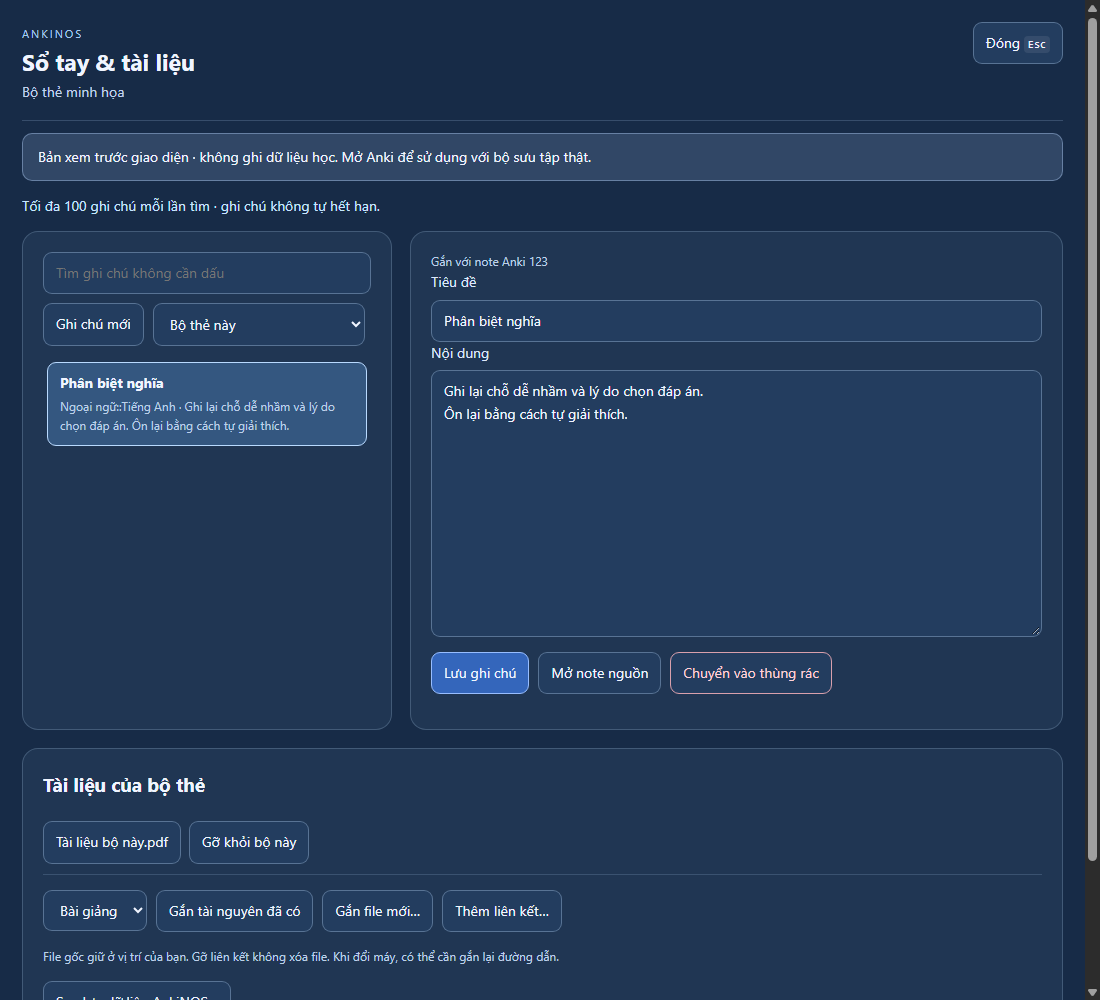
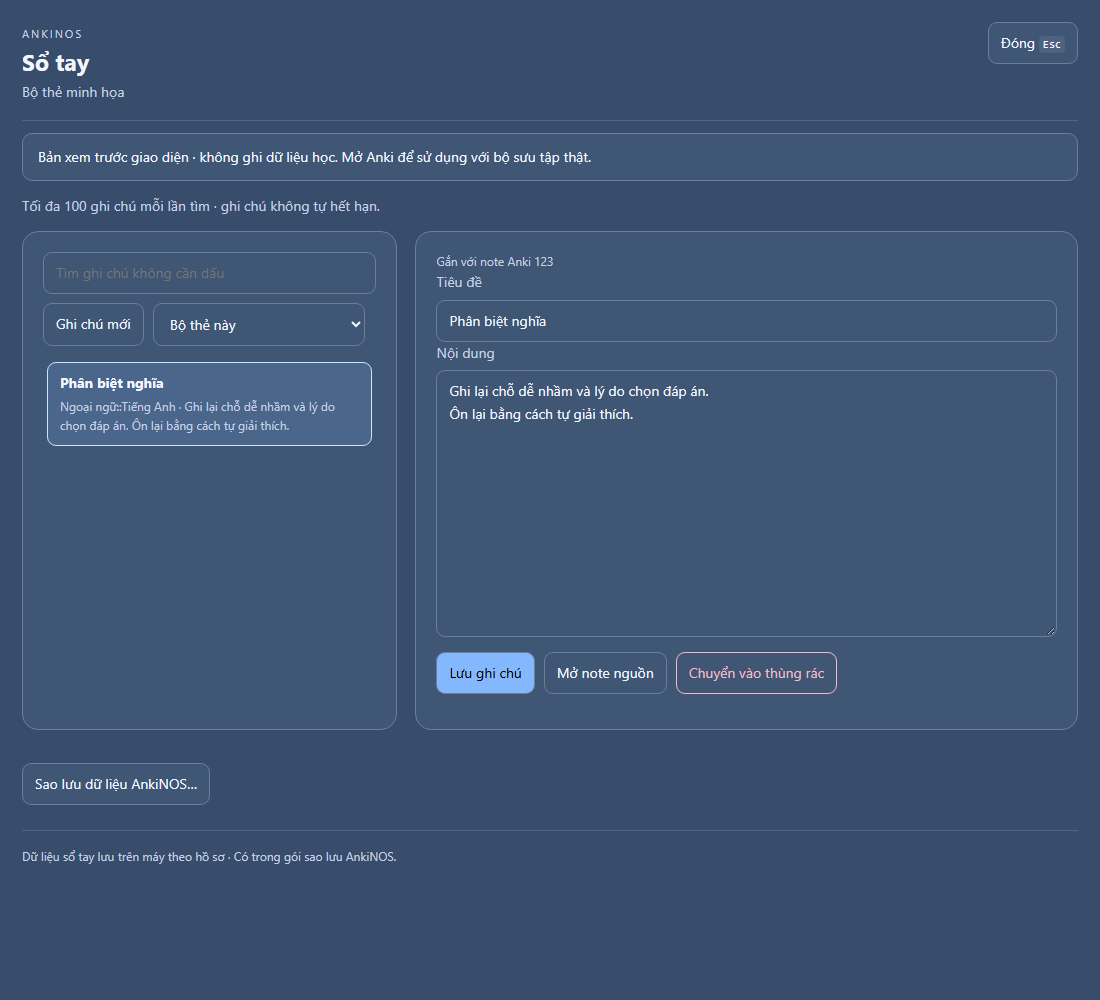
refactor: simplify notebook and resource terminology in UI and documentation

diff --git a/assets/notebook.js b/assets/notebook.js
@@ -27,17 +27,11 @@
       if(!rows.length)$('note-list').append(el('p',trash?'Thùng rác đang trống.':'Chưa có ghi chú trong ngữ cảnh này.'));
       const desired=rows.find(n=>n.id===(selected?.id||data.selected_note));
       if(!dirty)select(desired||null);
-      $('resource-list').replaceChildren();$('resource-picker').replaceChildren();
-      for(const resource of data.resources||[]){
-        if(resource.attached){const row=el('div',undefined,'resource-row');const open=el('button',resource.name);open.type='button';open.addEventListener('click',()=>T.send('resource',{id:resource.id}));const remove=el('button','Gỡ khỏi bộ này');remove.type='button';remove.addEventListener('click',()=>T.send('bind',{id:resource.id,remove:true}));row.append(open,remove);$('resource-list').append(row);}
-        else{const option=el('option',resource.name);option.value=resource.id;$('resource-picker').append(option);}
-      }
-      $('resource-attach').disabled=!$('resource-picker').options.length;
       $('note-archive-banner').hidden=!archived;
       T.notice('Tối đa 100 ghi chú mỗi lần tìm · ghi chú không tự hết hạn.');
     }
     window.NOSNotebook={init(){
-      $('tool-content').innerHTML=`<div class="notebook-layout"><section class="panel"><div class="note-toolbar"><input id="note-search" type="search" placeholder="Tìm ghi chú không cần dấu" aria-label="Tìm ghi chú"><button type="button" id="note-new">Ghi chú mới</button><select id="note-scope" aria-label="Phạm vi ghi chú"><option value="current">Bộ thẻ này</option><option value="trash">Thùng rác của bộ này</option><option value="archived">Bản lưu từ bộ sưu tập khác</option></select></div><div id="note-list" class="note-list" aria-label="Danh sách ghi chú"></div></section><section class="panel"><p id="note-context" class="muted"></p><p id="note-archive-banner" class="notice" hidden>Dữ liệu này thuộc bộ sưu tập khác. Chỉ xem bản lưu; không tự gắn ID vào bộ sưu tập hiện tại.</p><label>Tiêu đề<input id="note-title" maxlength="160"></label><label>Nội dung<textarea id="note-body" rows="11" maxlength="20000"></textarea></label><div class="actions"><button type="button" class="primary" id="note-save" data-wait>Lưu ghi chú</button><button type="button" id="note-source" hidden>Mở note nguồn</button><button type="button" id="note-trash" class="danger" hidden>Chuyển vào thùng rác</button></div></section></div><section class="panel"><h2>Tài liệu của bộ thẻ</h2><div id="resource-list"></div><div class="actions"><select id="resource-picker" aria-label="Tài nguyên đã có"></select><button type="button" id="resource-attach">Gắn tài nguyên đã có</button><button type="button" id="resource-file">Gắn file mới…</button><button type="button" id="resource-link">Thêm liên kết…</button></div><p class="muted">File gốc giữ ở vị trí của bạn. Gỡ liên kết không xóa file. Khi đổi máy, có thể cần gắn lại đường dẫn.</p><div class="actions"><button type="button" id="notebook-backup">Sao lưu dữ liệu AnkiNOS…</button></div></section>`;
+      $('tool-content').innerHTML=`<div class="notebook-layout"><section class="panel"><div class="note-toolbar"><input id="note-search" type="search" placeholder="Tìm ghi chú không cần dấu" aria-label="Tìm ghi chú"><button type="button" id="note-new">Ghi chú mới</button><select id="note-scope" aria-label="Phạm vi ghi chú"><option value="current">Bộ thẻ này</option><option value="trash">Thùng rác của bộ này</option><option value="archived">Bản lưu từ bộ sưu tập khác</option></select></div><div id="note-list" class="note-list" aria-label="Danh sách ghi chú"></div></section><section class="panel"><p id="note-context" class="muted"></p><p id="note-archive-banner" class="notice" hidden>Dữ liệu này thuộc bộ sưu tập khác. Chỉ xem bản lưu; không tự gắn ID vào bộ sưu tập hiện tại.</p><label>Tiêu đề<input id="note-title" maxlength="160"></label><label>Nội dung<textarea id="note-body" rows="11" maxlength="20000"></textarea></label><div class="actions"><button type="button" class="primary" id="note-save" data-wait>Lưu ghi chú</button><button type="button" id="note-source" hidden>Mở note nguồn</button><button type="button" id="note-trash" class="danger" hidden>Chuyển vào thùng rác</button></div></section></div><div class="actions"><button type="button" id="notebook-backup">Sao lưu dữ liệu AnkiNOS…</button></div>`;
       $('note-new').addEventListener('click',()=>{if(archived||trash){$('note-scope').value='current';archived=trash=false;selected=null;dirty=false;load();}else select(null);$('note-title').focus();});
       for(const id of ['note-title','note-body'])$(id).addEventListener('input',()=>{dirty=true;});
       $('note-save').addEventListener('click',()=>{if(!$('note-body').value.trim()){T.notice('Nhập nội dung ghi chú trước khi lưu.',true);return;}T.busy(true);dirty=false;T.send('save',{id:selected?.id,title:$('note-title').value,body:$('note-body').value});});
@@ -45,14 +39,12 @@
       $('note-source').addEventListener('click',()=>T.send('open_source',{id:selected?.id}));
       $('note-search').addEventListener('input',()=>{clearTimeout(timer);timer=setTimeout(load,160);});
       $('note-scope').addEventListener('change',()=>{if(dirty&&!confirm('Bỏ thay đổi chưa lưu để đổi phạm vi?')){$('note-scope').value=archived?'archived':trash?'trash':'current';return;}dirty=false;selected=null;archived=$('note-scope').value==='archived';trash=$('note-scope').value==='trash';load();});
-      $('resource-attach').addEventListener('click',()=>T.send('bind',{id:$('resource-picker').value}));
-      $('resource-file').addEventListener('click',()=>T.send('add_resource',{link:false}));$('resource-link').addEventListener('click',()=>T.send('add_resource',{link:true}));
       $('notebook-backup').addEventListener('click',()=>T.send('backup'));select(null);
     },receive(event,data){if(event==='notebook')render(data);if(event==='note_focus')select(data);
       if(event==='note_context'){T.initial.note_id=data.note_id;if(!selected&&!archived&&!trash)$('note-context').textContent=data.note_id?'Ghi chú mới sẽ gắn với note '+data.note_id:'Ghi chú của bộ thẻ này';}
     },failed(){dirty=true;},preview(action,data){
-      if(action==='boot'||action==='load')render({notes:[],resources:[],archived:!!data.archived,trash:!!data.trash});
-      else T.notice('Bản xem trước · ghi chú và tài nguyên chỉ được lưu trong Anki.');
+      if(action==='boot'||action==='load')render({notes:[],archived:!!data.archived,trash:!!data.trash});
+      else T.notice('Bản xem trước · ghi chú chỉ được lưu trong Anki.');
     }};
   };
   if(document.readyState==='loading')document.addEventListener('DOMContentLoaded',setup,{once:true});else setup();

diff --git a/ankios-ui.html b/ankios-ui.html
@@ -53,7 +53,7 @@
         <button class="rail-button active" data-action="page" data-value="home" title="Tổng quan" aria-label="Tổng quan" aria-current="page"><svg class="icon"><use href="#i-home"/></svg><span>Tổng quan</span></button>
         <button class="rail-button" id="stats-toggle" data-action="page" data-value="stats" title="Thống kê" aria-label="Thống kê" aria-current="false"><svg class="icon"><use href="#i-chart"/></svg><span>Thống kê</span></button>
         <button class="rail-button" id="library-toggle" data-action="library" aria-haspopup="dialog" aria-expanded="false" aria-controls="library-dialog" title="Bộ thẻ & tài nguyên" aria-label="Bộ thẻ và tài nguyên"><svg class="icon"><use href="#i-layers"/></svg><span>Bộ thẻ</span></button>
-        <button type="button" class="rail-button" id="study-notebook" title="Sổ tay & tài liệu" aria-label="Sổ tay và tài liệu"><svg class="icon"><use href="#i-file"/></svg><span>Sổ tay & tài liệu</span></button>
+        <button type="button" class="rail-button" id="study-notebook" title="Sổ tay" aria-label="Sổ tay"><svg class="icon"><use href="#i-file"/></svg><span>Sổ tay</span></button>
       </div>
       <div class="rail-bottom">
         <button class="rail-button" data-action="preferences" title="Cài đặt Anki" aria-label="Cài đặt Anki"><svg class="icon"><use href="#i-settings"/></svg></button>

diff --git a/assets/commands.js b/assets/commands.js
@@ -23,7 +23,7 @@
     },receive(event,data){if(event==='results')render(data);},preview(action,data){
       if(action==='boot'||action==='search'){
         const fold=s=>s.toLowerCase().normalize('NFD').replace(/[\u0300-\u036f]/g,'').replace(/đ/g,'d');
-        const sample=[{kind:'action',id:'study',title:'Học bộ thẻ hiện tại',detail:'Lệnh'},{kind:'action',id:'notebook',title:'Sổ tay & tài liệu',detail:'Lệnh'},{kind:'action',id:'add',title:'Thêm thẻ Anki',detail:'Lệnh'},{kind:'deck',id:'1',title:'Ngoại ngữ::Tiếng Anh',detail:'Bộ thẻ'}];
+        const sample=[{kind:'action',id:'study',title:'Học bộ thẻ hiện tại',detail:'Lệnh'},{kind:'action',id:'notebook',title:'Sổ tay',detail:'Lệnh'},{kind:'action',id:'add',title:'Thêm thẻ Anki',detail:'Lệnh'},{kind:'deck',id:'1',title:'Ngoại ngữ::Tiếng Anh',detail:'Bộ thẻ'}];
         render({seq:data.seq||0,items:sample.filter(x=>fold(x.title).includes(fold(data.query||'')))});
       }else T.notice('Bản xem trước · mở Anki để chạy lệnh.');
     }};

diff --git a/assets/tools.js b/assets/tools.js
@@ -8,7 +8,7 @@
   const requested=initial.kind||new URLSearchParams(location.search).get('tool');
   const kind=['palette','workspace'].includes(requested)?requested:'workspace';
   const native=initial.native===true, started=performance.now();
-  const titles={palette:'Lệnh nhanh',workspace:'Sổ tay & tài liệu'};
+  const titles={palette:'Lệnh nhanh',workspace:'Sổ tay'};
   $('tool-title').textContent=titles[kind];
   $('tool-context').textContent=initial.deck||'Bộ thẻ minh họa';
   $('tool-preview').hidden=native;

diff --git a/study_tools_ui.py b/study_tools_ui.py
@@ -48,7 +48,7 @@ class ToolDialog(QDialog):
         self.deck_name = mw.col.decks.name(self.did)
         self.key = collection_key() if kind != "palette" else None
         self.serial, self.closed = 0, False
-        self.setWindowTitle({"palette":"Lệnh nhanh AnkiNOS", "workspace":"Sổ tay & tài liệu"}[kind])
+        self.setWindowTitle({"palette":"Lệnh nhanh AnkiNOS", "workspace":"Sổ tay"}[kind])
         self.resize(760, 580) if kind == "palette" else self.resize(1050, 760)
         self.setMinimumSize(360,400)
         layout = QVBoxLayout(self); layout.setContentsMargins(0,0,0,0)
@@ -146,10 +146,8 @@ class ToolDialog(QDialog):
                 self.accept(); actions[identifier]()
 
     def notebook(self, action, command):
-        from . import integration as host
         store = workspace_store()
         if action in {"boot","load"}:
-            resources = list(host.settings()["resources"])
             archive = command.get("archived") is True
             trash = command.get("trash") is True
             query = str(command.get("query",""))[:300]
@@ -159,8 +157,7 @@ class ToolDialog(QDialog):
                     focus = store.get(self.key,self.selected_note)
                     if focus and focus["deck_id"]==str(self.did) and all(n["id"]!=focus["id"] for n in notes):
                         notes = [focus,*notes[:99]]
-                ids = store.bindings(self.key,str(self.did))
-                return {"notes":notes,"resources":[{**r,"attached":r["id"] in ids} for r in resources],
+                return {"notes":notes,
                     "archived":archive,"trash":trash,"selected_note":self.selected_note}
             self.query(read,lambda data:self.send("notebook",data))
         elif action == "save":
@@ -171,21 +168,6 @@ class ToolDialog(QDialog):
         elif action == "trash":
             store.trash(self.key,str(command.get("id","")),command.get("restore") is True)
             self.notebook("load",{"trash":command.get("restore") is not True})
-        elif action == "bind":
-            resource = str(command.get("id",""))
-            if not any(r["id"]==resource for r in host.settings()["resources"]):
-                raise ValueError("Tài nguyên không còn trong thư viện.")
-            store.bind(self.key,str(self.did),resource,command.get("remove") is True)
-            self.notebook("load",{})
-        elif action == "resource":
-            host._open_resource(str(command.get("id","")))
-        elif action == "add_resource":
-            before = {r["id"] for r in host.settings()["resources"]}
-            host._add_resource(command.get("link") is True)
-            for resource in host.settings()["resources"]:
-                if resource["id"] not in before:
-                    store.bind(self.key,str(self.did),resource["id"])
-            self.notebook("load",{})
         elif action == "open_source":
             entry = store.get(self.key,str(command.get("id","")))
             if not entry or not str(entry["note_id"] or "").isdigit():
@@ -250,11 +232,8 @@ def install():
     if _installed:
         return
     _installed = True
-    for label,callback,shortcut in (("AnkiNOS — Lệnh nhanh",open_commands,"Ctrl+K"),
-        ("AnkiNOS — Sổ tay & tài liệu",open_notebook,"")):
-        action = QAction(label,mw)
-        if shortcut:
-            action.setShortcut(QKeySequence(shortcut))
-        qconnect(action.triggered,lambda _checked=False,callback=callback:callback())
-        mw.form.menuTools.addAction(action)
+    action = QAction("AnkiNOS — Lệnh nhanh",mw)
+    action.setShortcut(QKeySequence("Ctrl+K"))
+    qconnect(action.triggered,lambda _checked=False:open_commands())
+    mw.addAction(action)
     gui_hooks.profile_will_close.append(reset_tools)

diff --git a/integration.py b/integration.py
@@ -37,7 +37,6 @@ _installed = False
 _integration_ready = False
 _active_query: tuple[int, str] | None = None
 _refresh_timer: QTimer | None = None
-_toggle_action: QAction | None = None
 _chrome_visibility: list[tuple[Any, bool]] = []
 _chrome_guard: QObject | None = None
 _overview_rendered = False
@@ -72,13 +71,11 @@ def _fallback(error: Exception) -> None:
     _session_error = str(error)
     _navigating = False
     _restore_chrome()
-    if _toggle_action:
-        _toggle_action.setChecked(False)
     def recover() -> None:
         if mw.col:
             mw.moveToState("deckBrowser")
         showWarning("AnkiNOS đã chuyển về giao diện Anki gốc để bạn tiếp tục học.\n"
-                    "Có thể bật lại từ Tools sau khi kiểm tra tương thích.\n\n" + _session_error, parent=mw)
+                    "Hãy kiểm tra cấu hình add-on và khởi động lại Anki.\n\n" + _session_error, parent=mw)
     QTimer.singleShot(0, recover)
 
 
@@ -1103,7 +1100,7 @@ def _create_deck(parent_id: int | None = None) -> None:
 def _deck_menu(did: int) -> None:
     menu = QMenu(mw)
     from .study_tools_ui import open_notebook
-    _menu_action(menu, "Sổ tay & tài liệu…", lambda: open_notebook(did))
+    _menu_action(menu, "Sổ tay…", lambda: open_notebook(did))
     menu.addSeparator()
     starred = str(did) in settings()["favorites"]
     _menu_action(menu, "Bỏ gắn sao" if starred else "Gắn sao bộ thẻ", lambda: _favorite(str(did)))
@@ -1409,16 +1406,12 @@ def _sync_finished(*_args: Any) -> None:
 def _toggle(active: bool) -> None:
     global _session_error
     if active and not _integration_ready:
-        if _toggle_action:
-            _toggle_action.setChecked(False)
         showWarning("AnkiNOS chưa khởi tạo đầy đủ. Hãy kiểm tra phiên bản Anki và khởi động lại trước khi bật lại.", parent=mw)
         return
     _session_error = ""
     conf = config()
     conf["enabled"] = active
     mw.addonManager.writeConfig(MODULE, conf)
-    if _toggle_action:
-        _toggle_action.setChecked(bool(active))
     if not active:
         _restore_chrome()
     if mw.col:
@@ -1426,24 +1419,12 @@ def _toggle(active: bool) -> None:
 
 
 def install() -> None:
-    global _installed, _refresh_timer, _toggle_action, _chrome_guard, _integration_ready
+    global _installed, _refresh_timer, _chrome_guard, _integration_ready
     if _installed:
         return
     _installed = True
     mw.addonManager.setWebExports(MODULE, r"(?:assets/.*\.(?:css|js|png|webp)|user_files/[0-9a-f]{20}/[0-9a-f]{32}(?:-thumb|-wall)?\.(?:png|jpg|webp))")
     mw.addonManager.setConfigUpdatedAction(MODULE, _config_updated)
-    # Register recovery commands before optional skin patches can fail.
-    _toggle_action = QAction("AnkiNOS — Giao diện kính", mw)
-    _toggle_action.setCheckable(True)
-    qconnect(_toggle_action.triggered, _toggle)
-    mw.form.menuTools.addAction(_toggle_action)
-    compatibility_action = QAction("AnkiNOS — Kiểm tra tương thích", mw)
-    qconnect(compatibility_action.triggered, _compatibility)
-    mw.form.menuTools.addAction(compatibility_action)
-    data_menu = QMenu("AnkiNOS — Sao lưu và khôi phục", mw)
-    _menu_action(data_menu, "Tạo gói sao lưu…", _backup_export)
-    _menu_action(data_menu, "Khôi phục từ gói…", _backup_restore)
-    mw.form.menuTools.addMenu(data_menu)
     _guard_unused_heatmaps()
     _guard_unused_deck_html()
     _guard_live_updates()
@@ -1470,4 +1451,3 @@ def install() -> None:
     from .study_tools_ui import install as install_tools
     install_tools()
     _integration_ready = True
-    _toggle_action.setChecked(enabled())

diff --git a/tests/anki-smoke.py b/tests/anki-smoke.py
@@ -151,7 +151,8 @@ def main():
     assert js("document.getElementById('stat-retention').textContent") == "—"
     assert not js("document.getElementById('page-footnote').textContent.includes('minh họa')")
     assert js("getComputedStyle(document.querySelector('.glass')).backdropFilter") != "none"
-    assert integration._toggle_action in aqt.mw.form.menuTools.actions()
+    assert not any(action.text().startswith("AnkiNOS") for action in aqt.mw.form.menuTools.actions())
+    assert any(action.shortcut().toString() == "Ctrl+K" for action in aqt.mw.actions())
     wait(150)
     assert aqt.mw.toolbarWeb.isHidden(), "Native top bar must be hidden in AnkiNOS"
     assert aqt.mw.bottomWeb.isHidden(), "Native bottom bar must be hidden in AnkiNOS"
@@ -521,14 +522,12 @@ def main():
     integration._toggle(False)
     until("!document.getElementById('nos-app') && !!document.getElementById('studiedToday')")
     assert not aqt.mw.toolbarWeb.isHidden() and not aqt.mw.bottomWeb.isHidden()
-    recovery_menu = next(action.menu() for action in aqt.mw.form.menuTools.actions()
-                         if action.menu() and action.menu().title() == "AnkiNOS — Sao lưu và khôi phục")
-    assert len(recovery_menu.actions()) == 2
+    assert not any(action.text().startswith("AnkiNOS") for action in aqt.mw.form.menuTools.actions())
     from aqt import utils as aqt_utils
     with patch.object(aqt_utils, "showInfo") as info, patch.object(integration.QFileDialog, "getSaveFileName", return_value=(str(base / "native-mode.nosbackup"), "")):
         integration._compatibility()
         assert "Anki " in info.call_args.args[0]
-        recovery_menu.actions()[0].trigger()
+        integration._backup_export()
         end = time.monotonic() + 10
         while integration._backup_busy and time.monotonic() < end:
             wait(30)
@@ -564,7 +563,8 @@ def main():
     report.update(dashboard_to_native_focus=True,focus_30_minutes=True,focus_summary=True,
         full_backup_roundtrip=True,restore_cancel_preserves_settings=True,restore_creates_recovery=True,
         automatic_native_fallback=True)
-    report.update(backup_tools_available_in_native_mode=True,compatibility_report=True)
+    report.update(tools_menu_without_ankinos=True,command_shortcut_registered=True,
+                  backup_available_in_native_mode=True,compatibility_report=True)
     report.update(studio_first_open_js_ms=round(studio_open_ms),studio_legacy_preview_in_background=True,studio_reuses_thumbnails=True)
     (ROOT / "previews" / "anki-report.json").write_text(json.dumps(report,indent=2),encoding="utf-8")
     print("PASS: " + json.dumps(report),flush=True)

diff --git a/study_tools_data.py b/study_tools_data.py
@@ -8,7 +8,7 @@ COLLECTION_KEY = "ankinos_learning_collection_uuid"
 COMMANDS = [
     ("study", "Học bộ thẻ hiện tại", "học tiếp ôn tập study"),
     ("focus", "Bắt đầu Focus", "tập trung thời gian focus"),
-    ("notebook", "Sổ tay & tài liệu của bộ thẻ", "ghi chú tài nguyên sổ tay notes"),
+    ("notebook", "Sổ tay của bộ thẻ", "ghi chú sổ tay notes"),
     ("add", "Thêm thẻ Anki", "tạo thẻ note add"),
     ("browse", "Duyệt thẻ", "tìm kiếm browser browse"),
     ("stats", "Thống kê AnkiNOS", "thống kê số liệu lịch sử"),

diff --git a/README.md b/README.md
@@ -18,7 +18,7 @@ Hệ thống học nhiều mode của NOS đã được gỡ. Học thẻ dùng 
 ## Lệnh nhanh và sổ tay
 
 - **Ctrl+K** tìm bộ thẻ, tài nguyên, ghi chú hoặc lệnh Anki. **Ctrl+Shift+K** mở thư viện bộ thẻ trên dashboard.
-- **Sổ tay & tài liệu** lưu ghi chú theo bộ thẻ/note, tìm không dấu, gắn tài nguyên và có thùng rác/khôi phục. Trong reviewer, nút **Ghi chú** mở sổ tay cho note đang học.
+- **Sổ tay** lưu ghi chú theo bộ thẻ/note, tìm không dấu và có thùng rác/khôi phục. Trong reviewer, nút **Ghi chú** mở sổ tay cho note đang học.
 - Sổ tay lưu cục bộ trong `workspace.sqlite3` theo hồ sơ; tài nguyên bên ngoài chỉ lưu đường dẫn.
 
 ## Học nhanh, Focus và nhận xét học tập — 0.2.0
@@ -37,11 +37,11 @@ Vào **Cài đặt AnkiNOS → Dữ liệu → Tạo gói sao lưu** để xuấ
 
 Khi chuyển sang collection khác, dấu sao/màu và bộ học gần nhất được đối chiếu bằng **tên đầy đủ** của bộ thẻ; mục không khớp được bỏ qua thay vì gắn vào ID trùng nhưng khác nội dung. Gói chỉ áp dụng vào hồ sơ đang chọn, không ảnh hưởng hồ sơ khác và không tự tải lên AnkiWeb. **Xuất/Nhập JSON** cũ vẫn chỉ phục vụ tùy chỉnh giao diện; không thay thế gói sao lưu đầy đủ.
 
-**Tools → AnkiNOS — Kiểm tra tương thích** kiểm tra các API đang có ở bản Anki thực tế. Trong **Dữ liệu** cũng có **Dùng giao diện Anki gốc**. Nếu dựng giao diện Python hoặc khởi tạo JavaScript chính bị lỗi, add-on trả về giao diện gốc và khôi phục các thanh chức năng; có thể bật lại AnkiNOS từ Tools. **Tools → AnkiNOS — Sao lưu và khôi phục** vẫn truy cập được khi giao diện AnkiNOS tắt hoặc gặp lỗi. Khôi phục khi đang ôn sẽ kết thúc phiên Focus sau bước xác nhận. Kiểm tra API không đồng nghĩa đã xác minh mọi tổ hợp add-on hoặc mọi hệ điều hành.
+Trong **Cài đặt AnkiNOS → Dữ liệu** có các chức năng sao lưu, khôi phục và **Dùng giao diện Anki gốc**. Nếu dựng giao diện Python hoặc khởi tạo JavaScript chính bị lỗi, add-on trả về giao diện gốc và khôi phục các thanh chức năng. Có thể bật lại bằng cấu hình add-on (`enabled: true`) rồi khởi động lại Anki. Khôi phục khi đang ôn sẽ kết thúc phiên Focus sau bước xác nhận. Menu Tools không thêm mục AnkiNOS; mở Sổ tay từ thanh bên hoặc menu bộ thẻ, mở Lệnh nhanh bằng **Ctrl+K**.
 
 ## Sử dụng
 
-Đặt thư mục add-on trong `Anki2/addons21/` (bản làm việc hiện tại có tên `AnkiNOS`). Khởi động lại Anki, mở **Decks** để sử dụng. Trong **Tools → AnkiNOS — Giao diện kính**, bỏ chọn để trở về giao diện gốc. Add-on bổ sung giao diện cho dashboard, chuẩn bị học và lúc trả lời thẻ; giữ trình sửa thẻ, nội dung mẫu thẻ và thuật toán lên lịch của Anki.
+Đặt thư mục add-on trong `Anki2/addons21/` (bản làm việc hiện tại có tên `AnkiNOS`). Khởi động lại Anki, mở **Decks** để sử dụng. Trong **Cài đặt AnkiNOS → Dữ liệu**, chọn **Dùng giao diện Anki gốc** để trở về giao diện gốc. Add-on bổ sung giao diện cho dashboard, chuẩn bị học và lúc trả lời thẻ; giữ trình sửa thẻ, nội dung mẫu thẻ và thuật toán lên lịch của Anki.
 
 - Nhấn avatar ở góc trên phải để mở hồ sơ; nhấn lại, nhấn ngoài bảng hoặc Escape để đóng.
 - Nút **Bộ thẻ** (biểu tượng các lớp) trên sidebar mở bảng **Bộ thẻ & tài nguyên** dạng popup, giữ nguyên trang tổng quan phía sau. Bảng không còn nằm trên giao diện chính và không mở tab khác. Mũi tam giác nối về nút sidebar, chuyển xuống cạnh dưới khi dùng thanh điều hướng di động.
